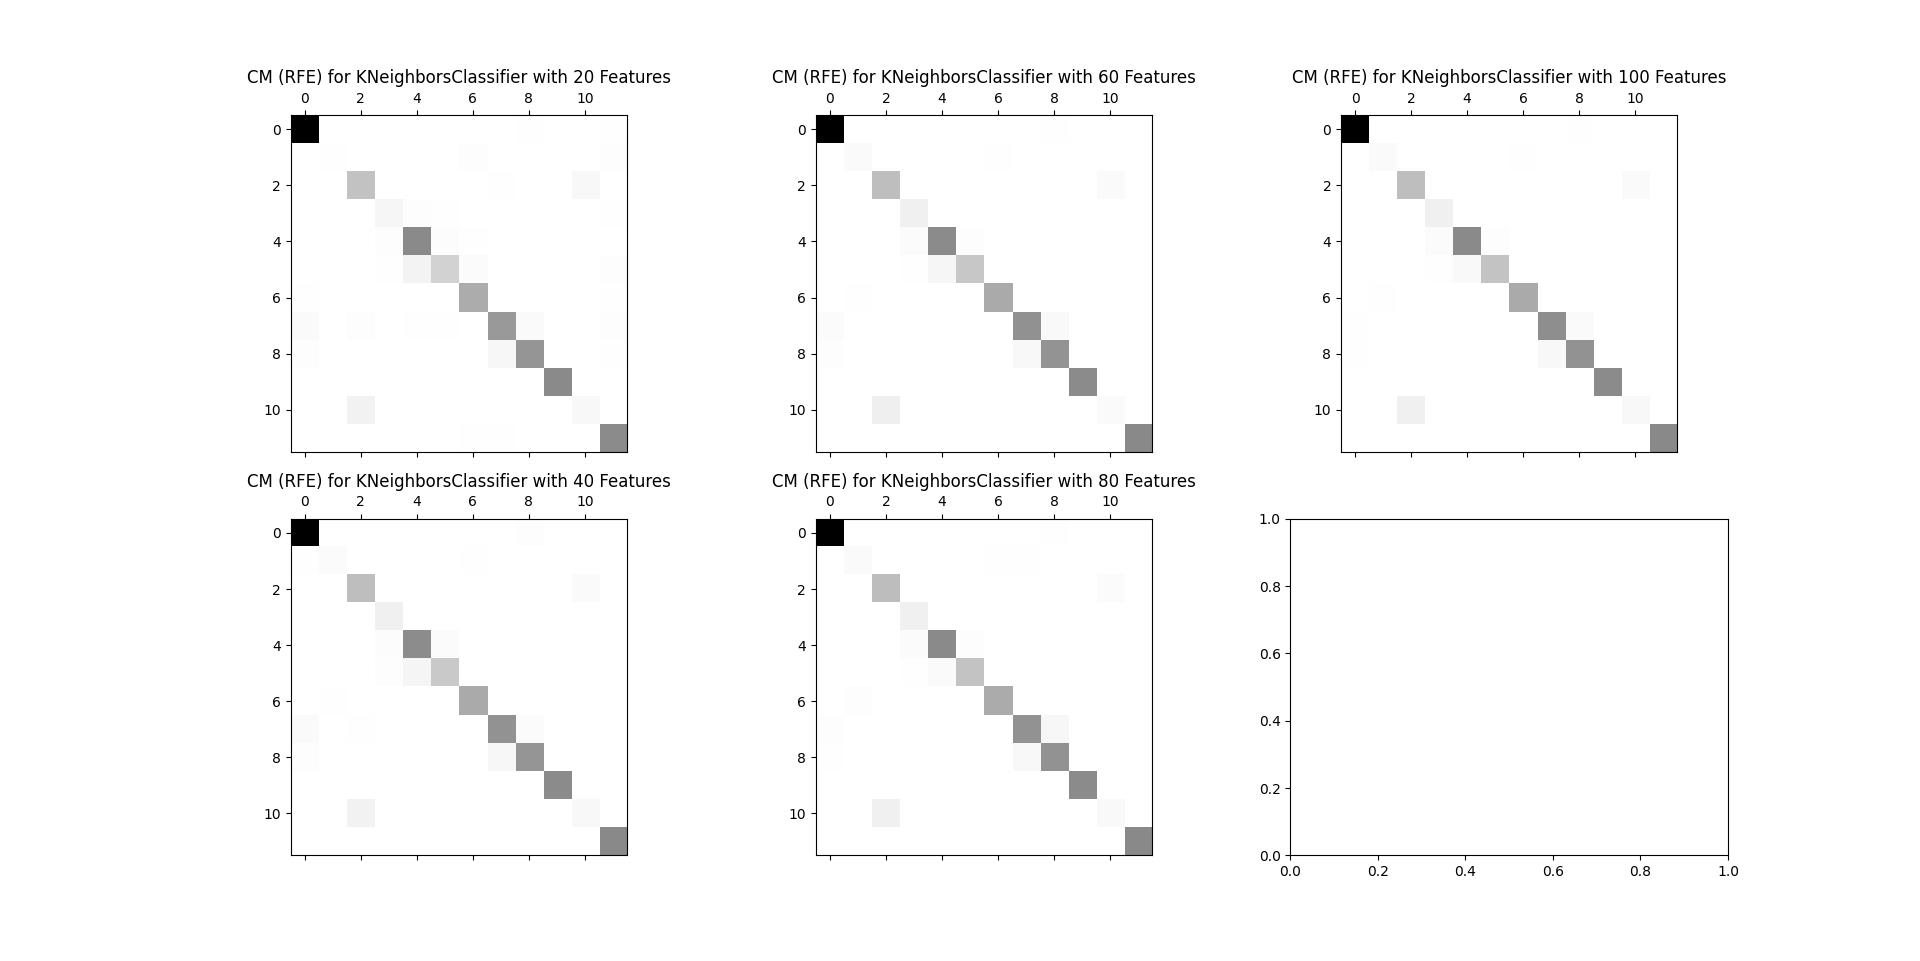
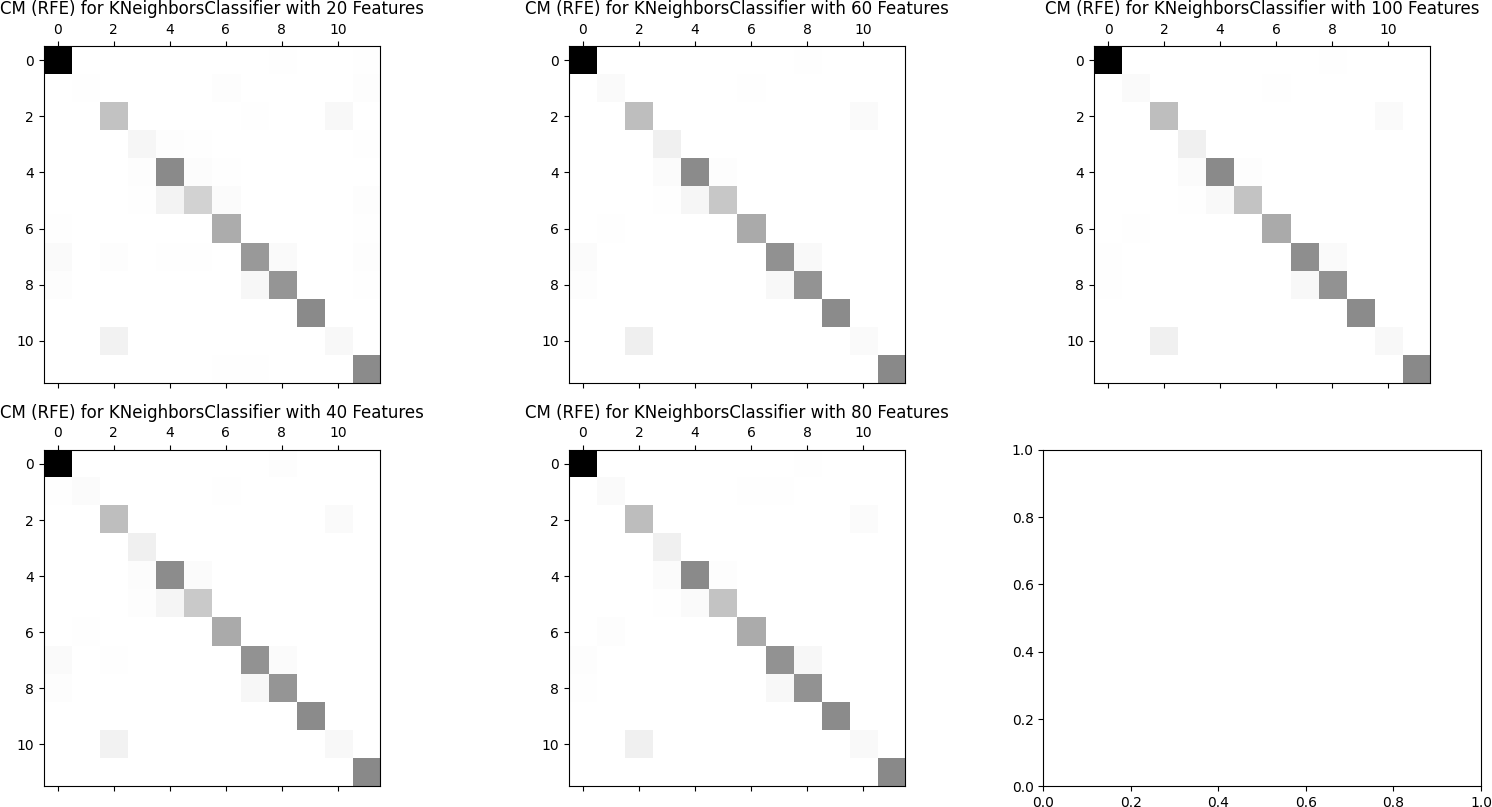
Resised RFE images

diff --git a/Report.md b/Report.md
@@ -154,14 +154,15 @@ To facilitate the systematic and standardized refinement of somatic variants bas
 
 ## Recursive Feature Elimination (RFE)
 
-### t-SNE 
+### t-SNE
+
 <img src='./images/RFE TSNE.png'>
 
 ### Performance Metrics 
 
 <img src='./images/RFE-KNN-Performance-Metrics.png' />
 
-<img src="./images/RFE-SVM-Performance-Matrics.png" />
+<img src="./images/RFE-SVM-Performance-Metrics.png" />
 
 <img src="./images/RFE-RF-Performance-Metrics.png" />
 
